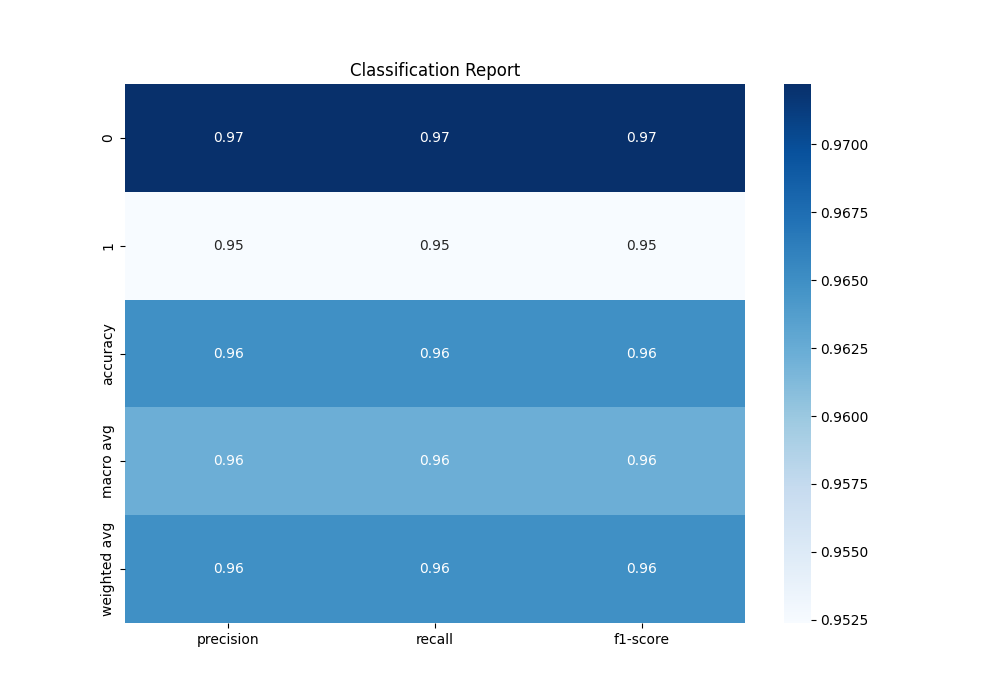
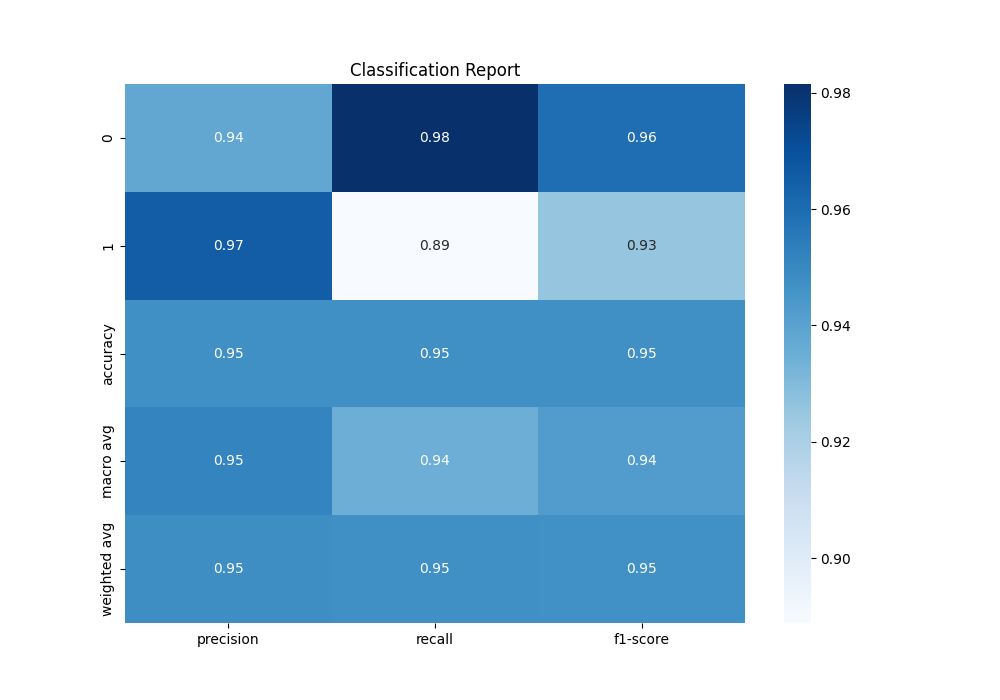
naive bayes

diff --git a/app_naive_bayes.py b/app_naive_bayes.py
@@ -1,0 +1,95 @@
+import pandas as pd
+import numpy as np
+from sklearn.model_selection import train_test_split
+from sklearn.feature_selection import mutual_info_classif
+from sklearn.naive_bayes import GaussianNB
+from sklearn.metrics import confusion_matrix, classification_report, accuracy_score, precision_score, f1_score
+import joblib
+import matplotlib.pyplot as plt
+import seaborn as sns
+
+# Load the dataset
+data = pd.read_csv("dataset.csv")
+
+# Remove the extra column 'Unnamed: 32'
+data = data.loc[:, ~data.columns.str.contains('^Unnamed')]
+
+# Check for and handle missing values
+print("Missing values before handling:")
+print(data.isnull().sum())
+
+# Remove rows with missing values
+data = data.dropna()
+
+# Check for and handle infinity values
+print("Infinity values before handling:")
+print((data == float('inf')).sum())
+
+# Replace infinity values with NaN and then drop rows with NaN values
+data.replace([float('inf'), -float('inf')], pd.NA, inplace=True)
+data.dropna(inplace=True)
+
+# Verify data after cleaning
+print("Data after cleaning:")
+print(data.info())
+
+# Preprocessing
+data['diagnosis'] = data['diagnosis'].map({'M': 1, 'B': 0})  # Convert diagnosis to binary
+X = data.drop(columns=['id', 'diagnosis'])
+y = data['diagnosis']
+
+# Check the shapes of X and y
+print(f"Shape of X: {X.shape}")
+print(f"Shape of y: {y.shape}")
+
+# Feature selection using Mutual Information
+mi = mutual_info_classif(X, y)
+mi_df = pd.DataFrame({'Feature': X.columns, 'Mutual Information': mi})
+mi_df = mi_df.sort_values(by='Mutual Information', ascending=False)
+
+# Selecting top features
+top_features = mi_df['Feature'].head(10).tolist()
+X_top = X[top_features]
+
+# Split data into training and testing sets
+X_train, X_test, y_train, y_test = train_test_split(X_top, y, test_size=0.3, random_state=42)
+
+# Train Naive Bayes model
+clf = GaussianNB()
+clf.fit(X_train, y_train)
+
+# Save the model
+joblib.dump(clf, 'naive_bayes_model.pkl')
+joblib.dump(top_features, 'features.pkl')  # Save feature names
+
+# Predict on the test set
+y_pred = clf.predict(X_test)
+
+# Calculate metrics
+accuracy = accuracy_score(y_test, y_pred)
+precision = precision_score(y_test, y_pred)
+f1 = f1_score(y_test, y_pred)
+conf_matrix = confusion_matrix(y_test, y_pred)
+report = classification_report(y_test, y_pred)
+
+# Print metrics
+print(f"Accuracy: {accuracy}")
+print(f"Precision: {precision}")
+print(f"F1 Score: {f1}")
+print("Classification Report:")
+print(report)
+
+# Plot Confusion Matrix
+plt.figure(figsize=(10, 7))
+sns.heatmap(conf_matrix, annot=True, fmt='d', cmap='Blues', xticklabels=['Benign', 'Malignant'], yticklabels=['Benign', 'Malignant'])
+plt.xlabel('Predicted Label')
+plt.ylabel('True Label')
+plt.title('Confusion Matrix')
+plt.savefig('confusion_matrix.png')
+
+# Plot Classification Report
+plt.figure(figsize=(10, 7))
+report_df = pd.DataFrame(classification_report(y_test, y_pred, output_dict=True)).iloc[:-1, :].T
+sns.heatmap(report_df, annot=True, cmap='Blues')
+plt.title('Classification Report')
+plt.savefig('classification_report.png')

diff --git a/web.py b/web.py
@@ -7,12 +7,13 @@ import matplotlib.pyplot as plt
 import seaborn as sns
 
 # Load the saved model and top features
-model = joblib.load('random_forest_model.pkl')
+# model = joblib.load('random_forest_model.pkl')
+model = joblib.load('naive_bayes_model.pkl')
 top_features = joblib.load('features.pkl')
 
 # Streamlit app
 st.title("Breast Cancer Prediction")
-st.write("By Falebita Temidayo Janet  20/47cs/01160 and Ibrahim Moshood 20/47cs/01237")
+st.write("Project By --------")
 
 # Option to upload CSV or input manually
 st.write("**Choose an input method:**")
